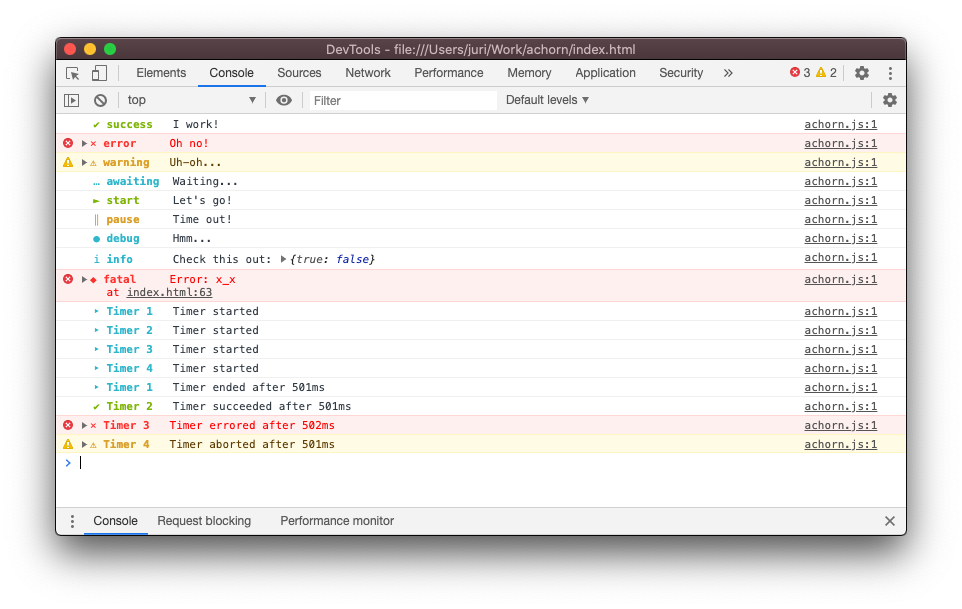
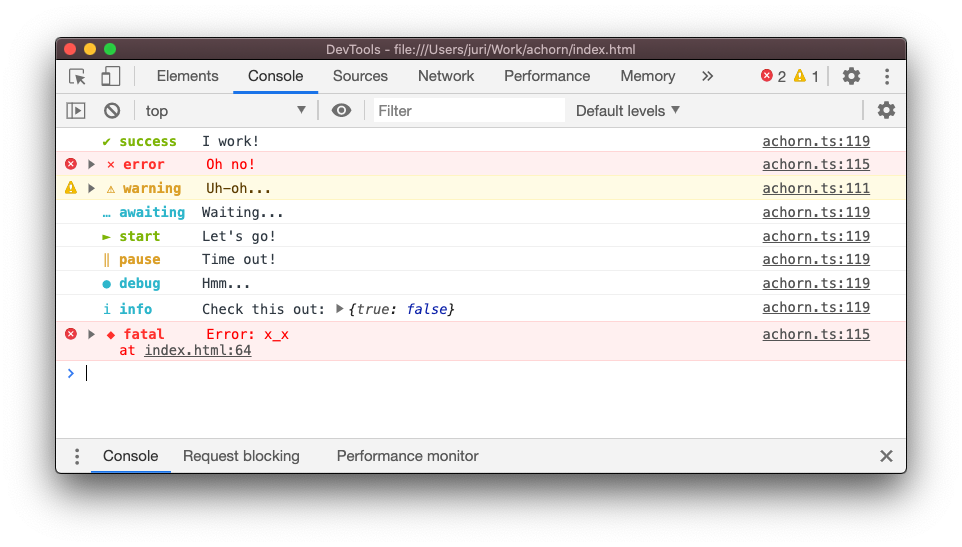
📝 Updated Readme and examples

Changed region(s): [[0.0624, 0.0622, 0.9667, 0.7459], [0.0624, 0.808, 0.9356, 0.9013]]

diff --git a/index.html b/index.html
@@ -13,7 +13,8 @@
                 <p style="font-size: 36px;">Open the <b>DevTools</b> to see Achorn in action</p>
 
                 <p style="font-size: 16px; margin-top: 30px;">
-                    Can't find <span class="code">achorn.js</span>? Run <span class="code">npm run build</span> first!
+                    Can't find <span class="code">lib/achorn.js</span>? Run
+                    <span class="code">npm run build</span> first!
                 </p>
             </div>
         </div>
@@ -62,19 +63,14 @@
             achorn.info("Check this out:", { true: false });
             achorn.fatal(new Error("x_x"));
 
-            // Create some Timers
-            const timer = achorn.timer("Timer 1");
-            const timer2 = achorn.timer("Timer 2");
-            const timer3 = achorn.timer("Timer 3");
-            const timer4 = achorn.timer("Timer 4");
+            // Timer examples
+            // const timer = achorn.timer("Async");
+            // timer.success("Request successful! 🎉");
+            // achorn.info("Result:", { some: "data" });
 
-            // Finish timers
-            setTimeout(() => {
-                timer.end();
-                timer2.success();
-                timer3.error();
-                timer4.abort();
-            }, 500);
+            // const errorTimer = achorn.timer("Bad");
+            // errorTimer.error("Request failed.");
+            // achorn.error(new Error("<some more info on why the request failed>"));
         </script>
     </body>
 </html>

diff --git a/README.md b/README.md
@@ -31,16 +31,20 @@
 
 ## How to Install
 
-### NPM
+### Package Manager
 
 ```
+# NPM
 npm install achorn
-```
 
-### Yarn
-
-```
+# Yarn
 yarn add achorn
+```
+
+Don't forget to import Achorn!
+
+```ts
+import Achorn from "achorn";
 ```
 
 ### CDN
@@ -72,30 +76,27 @@ Achorn takes an optional Config object as input. For all config options, see the
 
 After the initial setup, you can already use any of Achorns default loggers, which are defined in their dedicated prefixes file. Optionally, you can add your own prefixes/loggers by providing them in the `prefixes` field in the Config.
 
-## Timers
+## Documentation
+
+### Timers
 
 The most common use for Timers in Achorn are probably HTTP requests. Here's an example implementation:
 
 ```js
-// Create new Timer called "Async"
+// Create timer with custom name (optional)
 const timer = achorn.timer("Async");
 
-// Make request
 request("https://google.com")
     .then((res) => {
-        // End timer with success message
-        timer.success("Request successful! 🎉", res);
+        timer.success("Request successful! 🎉");
+        achorn.info("Result:", res);
     })
     .catch((err) => {
-        // End timer with error message
-        timer.error("Request failed.", err);
+        timer.error("Request failed.");
+        achorn.error(err);
     });
 ```
 
+Which will then produce this console output:
+
 ![](repository/timer.png)
-
-## Local Development
-
-After cloning the repository, all you have to do is run `npm run watch` to start Webpack in watch mode, which will listen for file changes and rebuild Achorn accordingly.
-
-Then, simply open the `index.html` of this project in the browser!
